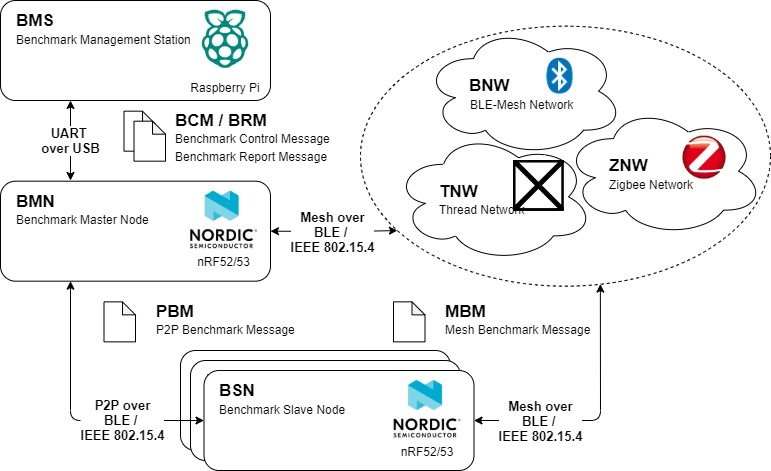
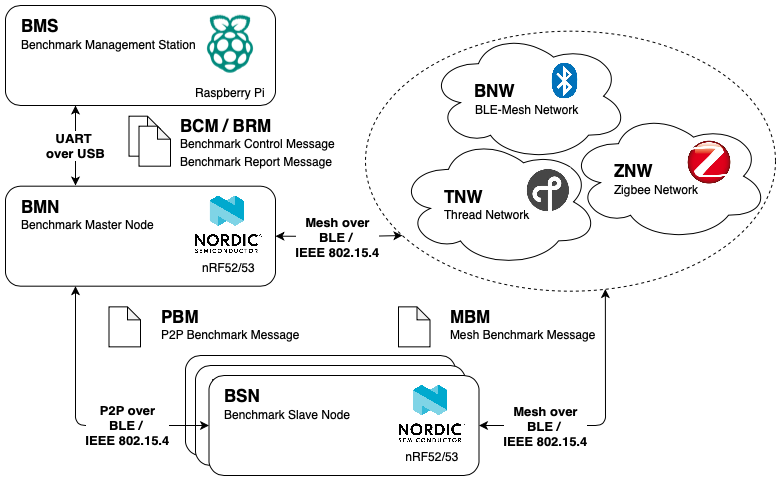
Pflichtenheft überarbeitet

diff --git a/Pflichtenheft/sections/2_0_Loesungskonzept.tex b/Pflichtenheft/sections/2_0_Loesungskonzept.tex
@@ -17,7 +17,7 @@ Das Testframework besteht aus folgenden physikalisch getrennten Teilsystemen:
 	\item \textbf{BMN} Benchmark Master Node \\ 
 	Dient als Zugangspunkt der BMS für die im Testframework gefahrenen Tests und lässt sich über eine Serielle Schnittstelle ansprechen. In der Aufgabenstellung \ref{app:Aufgabenstellung} wird der BMN als Master bezeichnet. Realisiert wird der BMN über einen nRF52840 oder nRF5340 von \textit{Nordic}. 
 	\item \textbf{BSN} Benchmark Slave Node \\ 
-	Dient als Zugriffspunkt der im Testframework gefahrenen Tests und kann frei in der Testumgebung platziert werden. Daher muss die Energieversorgung über einen Akku oder Batterie erfolgen. In der Aufgabenstellung  \ref{app:Aufgabenstellung} wird von einem Slave gesprochen. Realisiert wird der BSN über einen nRF52840 oder nRF5340 von \textit{Nordic}. In einem Test Netzwerk werden unterschiedliche Arten wie von BSN eingesetzt wie zum Beispiel Mesh Router oder sogenannte End Devices. Letztere werden häufig auch als Low Power Nodes (LPN) bezeichnet.
+	Dient als Zugriffspunkt der im Testframework gefahrenen Tests und kann frei in der Testumgebung platziert werden, daher muss die Energieversorgung über einen Akku oder Batterie erfolgen. In der Aufgabenstellung  \ref{app:Aufgabenstellung} wird von einem Slave gesprochen. Realisiert wird der BSN über einen nRF52840 oder nRF5340 von \textit{Nordic}. In einem Test Netzwerk werden unterschiedliche Arten von BSN eingesetzt wie zum Beispiel Mesh Router oder sogenannte End Devices. Letztere werden häufig auch als Low Power Nodes (LPN) bezeichnet.
 \end{itemize}
 
 Die logischen Komponenten des Testframeworks lassen sich wie folgt aufteilen:
@@ -52,20 +52,28 @@ Die BLE-Mesh Firmware der Nodes werden aus Beispielen der nRF Connect SDK und Ze
 
 
 \subsubsection{Thread}\label{subsubsection:Thread} 
-Die Abbildung \ref{fig:ThreadKonzept} zeigt das Framework des Openthread Netzwerkes auf. Die BMS kommuniziert via UART mit dem wpantund Protokoll von Google. Die Daten zum NCP, welcher auf dem BMN realisiert wird, werden mit Hilfe von Spinel übertragen. Der BMN sendet die erhaltenen Daten danach in das Thread Netzwerk.
+Die OpenThread Firmware wird mit Hilfe der API und den Tutorials von der offiziellen OpenThread Webseite erstellt. Die offizielle Seite von Google beschreibt das Netzwerk und alle Informationen die benötigt werden, um eine Firmware zu schreiben.
 
+Die Abbildung \ref{fig:ThreadKonzept} zeigt das Framework des Openthread Netzwerkes auf. Die Kommunikation von der BMS zum BMN findet Seriell mit UART over USB statt. Der Serielle Kanal wird mit Hilfe eines Python-Skripts ausgeführt. Zudem wird das Python-Skript vom Django-Webserver aufgerufen. Somit können die Daten vom Thread-Netzwerk zum Webserver übermittelt und dargestellt werden. Die Auswertung der gemessenen Daten findet direkt auf der BMS statt.
 \begin{figure}[H]
 	\centering
-	\includegraphics[width=1.0\textwidth]{Thread-Konzept.jpg}
+	\includegraphics[width=1.0\textwidth]{Thread-Konzept.png}
 	\caption{Konzept OpenThread Framework}\label{fig:ThreadKonzept}
 \end{figure}
-
 
 
 \subsubsection{Zigbee}\label{subsubsection:Zigbee}
 Das Zigbee Test Mesh Netzwerk wird mithilfe der \textit{nRF SDK for Thread and Zigbee} eingerichtet und für die Messungen vorbereitet. Der BMN wird dabei als Zigbee Coordinator und gleichzeitig als Zigbee Router eingesetzt. Die BSN können wieder als Router oder aber als Zigbee End Device betrieben werden.
 
-
+\newpage
 \subsection{Steuer und Auswertesoftware}\label{subsec:SteuerundAuswertesoftware}
 Die Steuerung des Testframeworks erfolgt über eine Weboberfläche. Diese wird von der BMS mittels WLAN auf den Benutzergeräten zur Anzeige gebracht. Als Webserver dient das Python-Framework \textit{Django}. Zur Steuerung der Benchmarks dienen Schrittketten, welche mit der Firmware auf dem BMN kommunizieren. Als letzter Schritt eines Benchmarks werden die Ergebnisse geloggt, nachbearbeitet und wiederum zur Anzeige gebracht.
+
+Die Abbildung \ref{fig:KonzeptWebserver} stellt ein erstes Konzept dar, wie der Webserver für die Punkt zu Punkt Verbindung aussehen kann. Die vom BMN ersichtlichen BSN werden aufgelistet und es können verschiedene  Aktionen durchgeführt werden. Mit Reitern soll auf verschiedene Seiten gewechselt werden, bei denen die Resultate oder die Logs der Kommunikation ersichtlich sind.
+
+\begin{figure}[H]
+	\centering
+	\includegraphics[width=1.0\textwidth]{Web_Mochup_BMS.jpg}
+	\caption{Konzept Webserver}\label{fig:KonzeptWebserver}
+\end{figure}
 

diff --git a/Pflichtenheft/sections/1_0_Uebersicht.tex b/Pflichtenheft/sections/1_0_Uebersicht.tex
@@ -13,7 +13,7 @@ basiert.
 Jedes dieser Netzwerkprotokolle hat gewisse Vorzüge: Bluetooth Mesh, dass BLE mittlerweile von jedem Smartphone und Notebook unterstützt wird, Thread aufgrund seiner IPv6 Basis und damit einfachem Übergang ins Internet sowie Zigbee aufgrund seiner etablierten Verbreitung im Smart-Lampenbereich durch Philips, IKEA und Osram.
 Hauptproblem aller drei Mesh Netzwerkprotokolle ist nebst physikalisch und distanzbedingter Absorption und Reflexion die Störbeeinflussung durch WLAN (WiFi) und andere Netzwerke im GHz Frequenzbereich.
 
-Im Vorprojekt im Rahmen des P5 mit dem Namen \textit{Bluetooth-Mesh Plattform für IoT Anwendungen} zu dieser Arbeit, wurde das Bluetooth-Mesh Protokoll bereits vertieft betrachtet und dessen Vor- und Nachteile aufgezeigt. Basierend auf diesen Erkenntnissen und Erfahrungen und der oben beschriebenen Thematik soll das Bluetooth-Mesh Protokoll mit den Alternativen Thread sowie Zigbee verglichen werden.
+Im Rahmen des P5 mit dem Namen \textit{Bluetooth-Mesh Plattform für IoT Anwendungen}, wurde das Bluetooth-Mesh Protokoll bereits vertieft betrachtet und dessen Vor- und Nachteile aufgezeigt. Basierend auf diesen Erkenntnissen und Erfahrungen und der oben beschriebenen Thematik soll das Bluetooth-Mesh Protokoll mit den Alternativen Thread sowie Zigbee verglichen werden.
 
 \subsection{Ziel der Arbeit}\label{subsec:ZielderArbeit}
 
